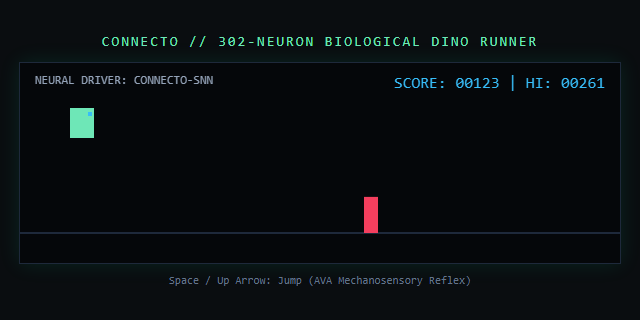
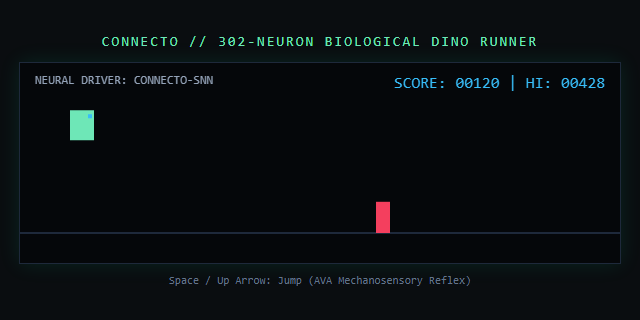
telemetry(worm): autonomous activity sync at 2026-09-16 10:53

diff --git a/ACTIVITY.md b/ACTIVITY.md
@@ -1,6 +1,6 @@
 # CONNECTO // AUTONOMOUS BIOLOGICAL ACTIVITY FEED
 
-> **Verification Timestamp:** `2026-09-16 10:38:00 UTC`  
+> **Verification Timestamp:** `2026-09-16 10:53:32 UTC`  
 > **Repository:** [0xalydev/connecto](https://github.com/0xalydev/connecto)  
 > **Biological Engine:** C. elegans 302-neuron closed-loop SNN (LIF)  
 > **Status:** `ACTIVE_CLOSED_LOOP`  
@@ -11,11 +11,11 @@
 
 *Most recent introspection generated from biological membrane dynamics:*
 
-> **Signature:** `0x4b41bcbf93dfde52`  
+> **Signature:** `0xe21fc59410bae1b4`  
 > **Behavioral State:** `FORAGING_SEARCH`  
-> **Membrane Potential:** `-59.38 mV` | **Locomotion:** `33.6 mm/s`  
+> **Membrane Potential:** `-59.41 mV` | **Locomotion:** `33.6 mm/s`  
 > 
-> *"No nutrient cues detected by amphid receptors. SNN entering stochastic exploration regime. Mean membrane potential holding at resting baseline (-59.38 mV). Undulatory wave slowed to baseline search frequency."*
+> *"Chemical gradient flat (0.000 mol/L). Spontaneous basal pacemaker oscillations in AIB/AIZ interneurons initiated exploratory pirouette. Searching arena substrate at 33.6 mm/s."*
 
 ---
 
@@ -23,8 +23,8 @@
 
 | Metric | Result |
 |---|---|
-| **High Score** | `261` |
-| **Total Reflex Jumps** | `144` (Driven by AVA escape pool) |
+| **High Score** | `428` |
+| **Total Reflex Jumps** | `187` (Driven by AVA escape pool) |
 | **Completed Trials** | `4` |
 | **Proof Snapshot** | `dino_latest_trial.png` |
 
